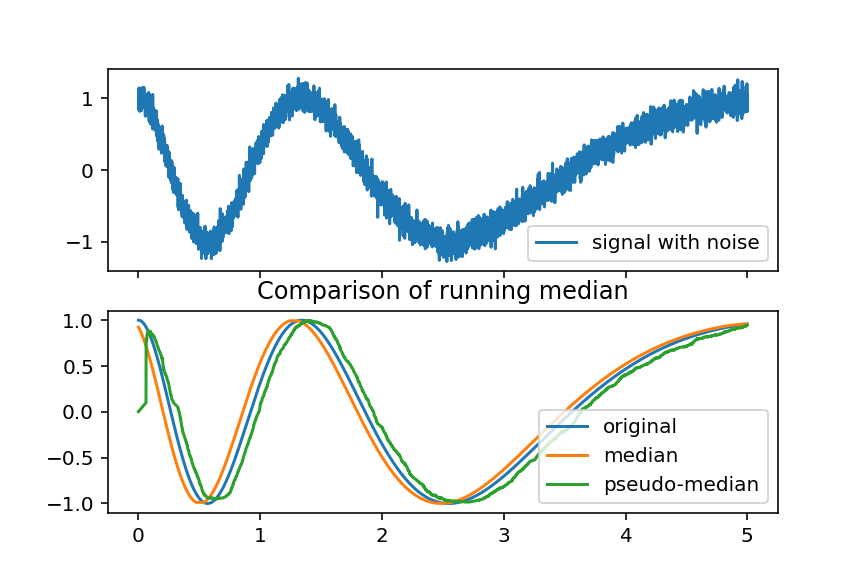
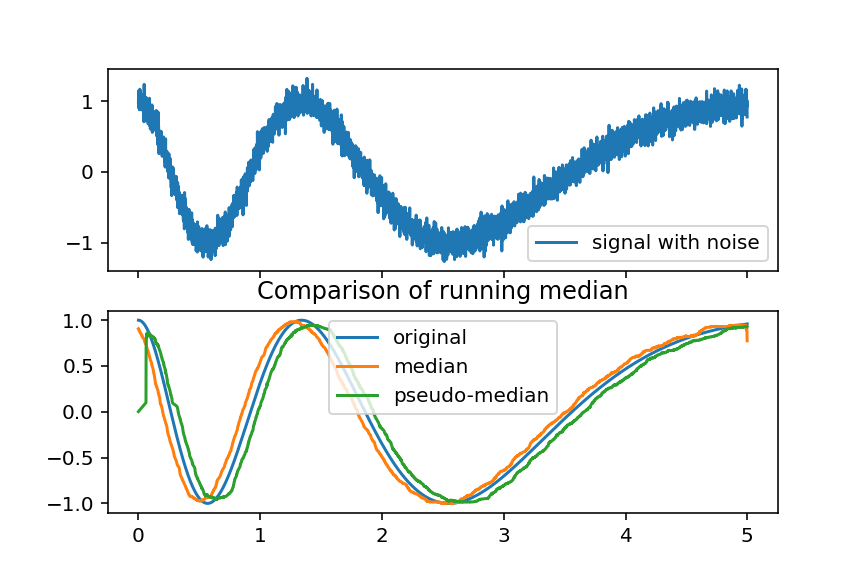
Fixed bug in classic median filter

diff --git a/experiment.py b/experiment.py
@@ -45,7 +45,7 @@ def analyze(t,a,b,c):
 # %%
 # Brute force solution
 mlen = 128
-c = [np.median(a[i:i+mlen]) for i in range(n)]
+c = [np.median(b[i:i+mlen]) for i in range(n)]
 #analyze(t,a,b,c)
 #Group delay should only be 1/2 mlen, but appears to be 1-4x mlen
 
@@ -82,7 +82,7 @@ def compare_noise(amp):
     a = sig.chirp(t, f2,duration, f1, method='log')
     b = a + noise
     mlen = 128
-    c = [np.median(a[i:i+mlen]) for i in range(n)]
+    c = [np.median(b[i:i+mlen]) for i in range(n)]
     d = pseudo_median(b, mlen)
     fig, (ax1, ax2) = plt.subplots(2,1, sharex=True)
     plt.title("Comparison of running median")

diff --git a/README.md b/README.md
@@ -16,5 +16,3 @@ It's more like 100ms with the noise at 1/2 the signal amplitude:
 And with the noise almost obscuring the signal, the lead is around 200ms, which is greater than the window length.
 ![Noise at 1x the signal amplitude](images/noise_1.0.png)
 
-You might well wonder why anyone would want a new median filter when the classic approach removes the noise perfectly.
-This is the trouble with simulation. I will see about collecting some real data to test.
